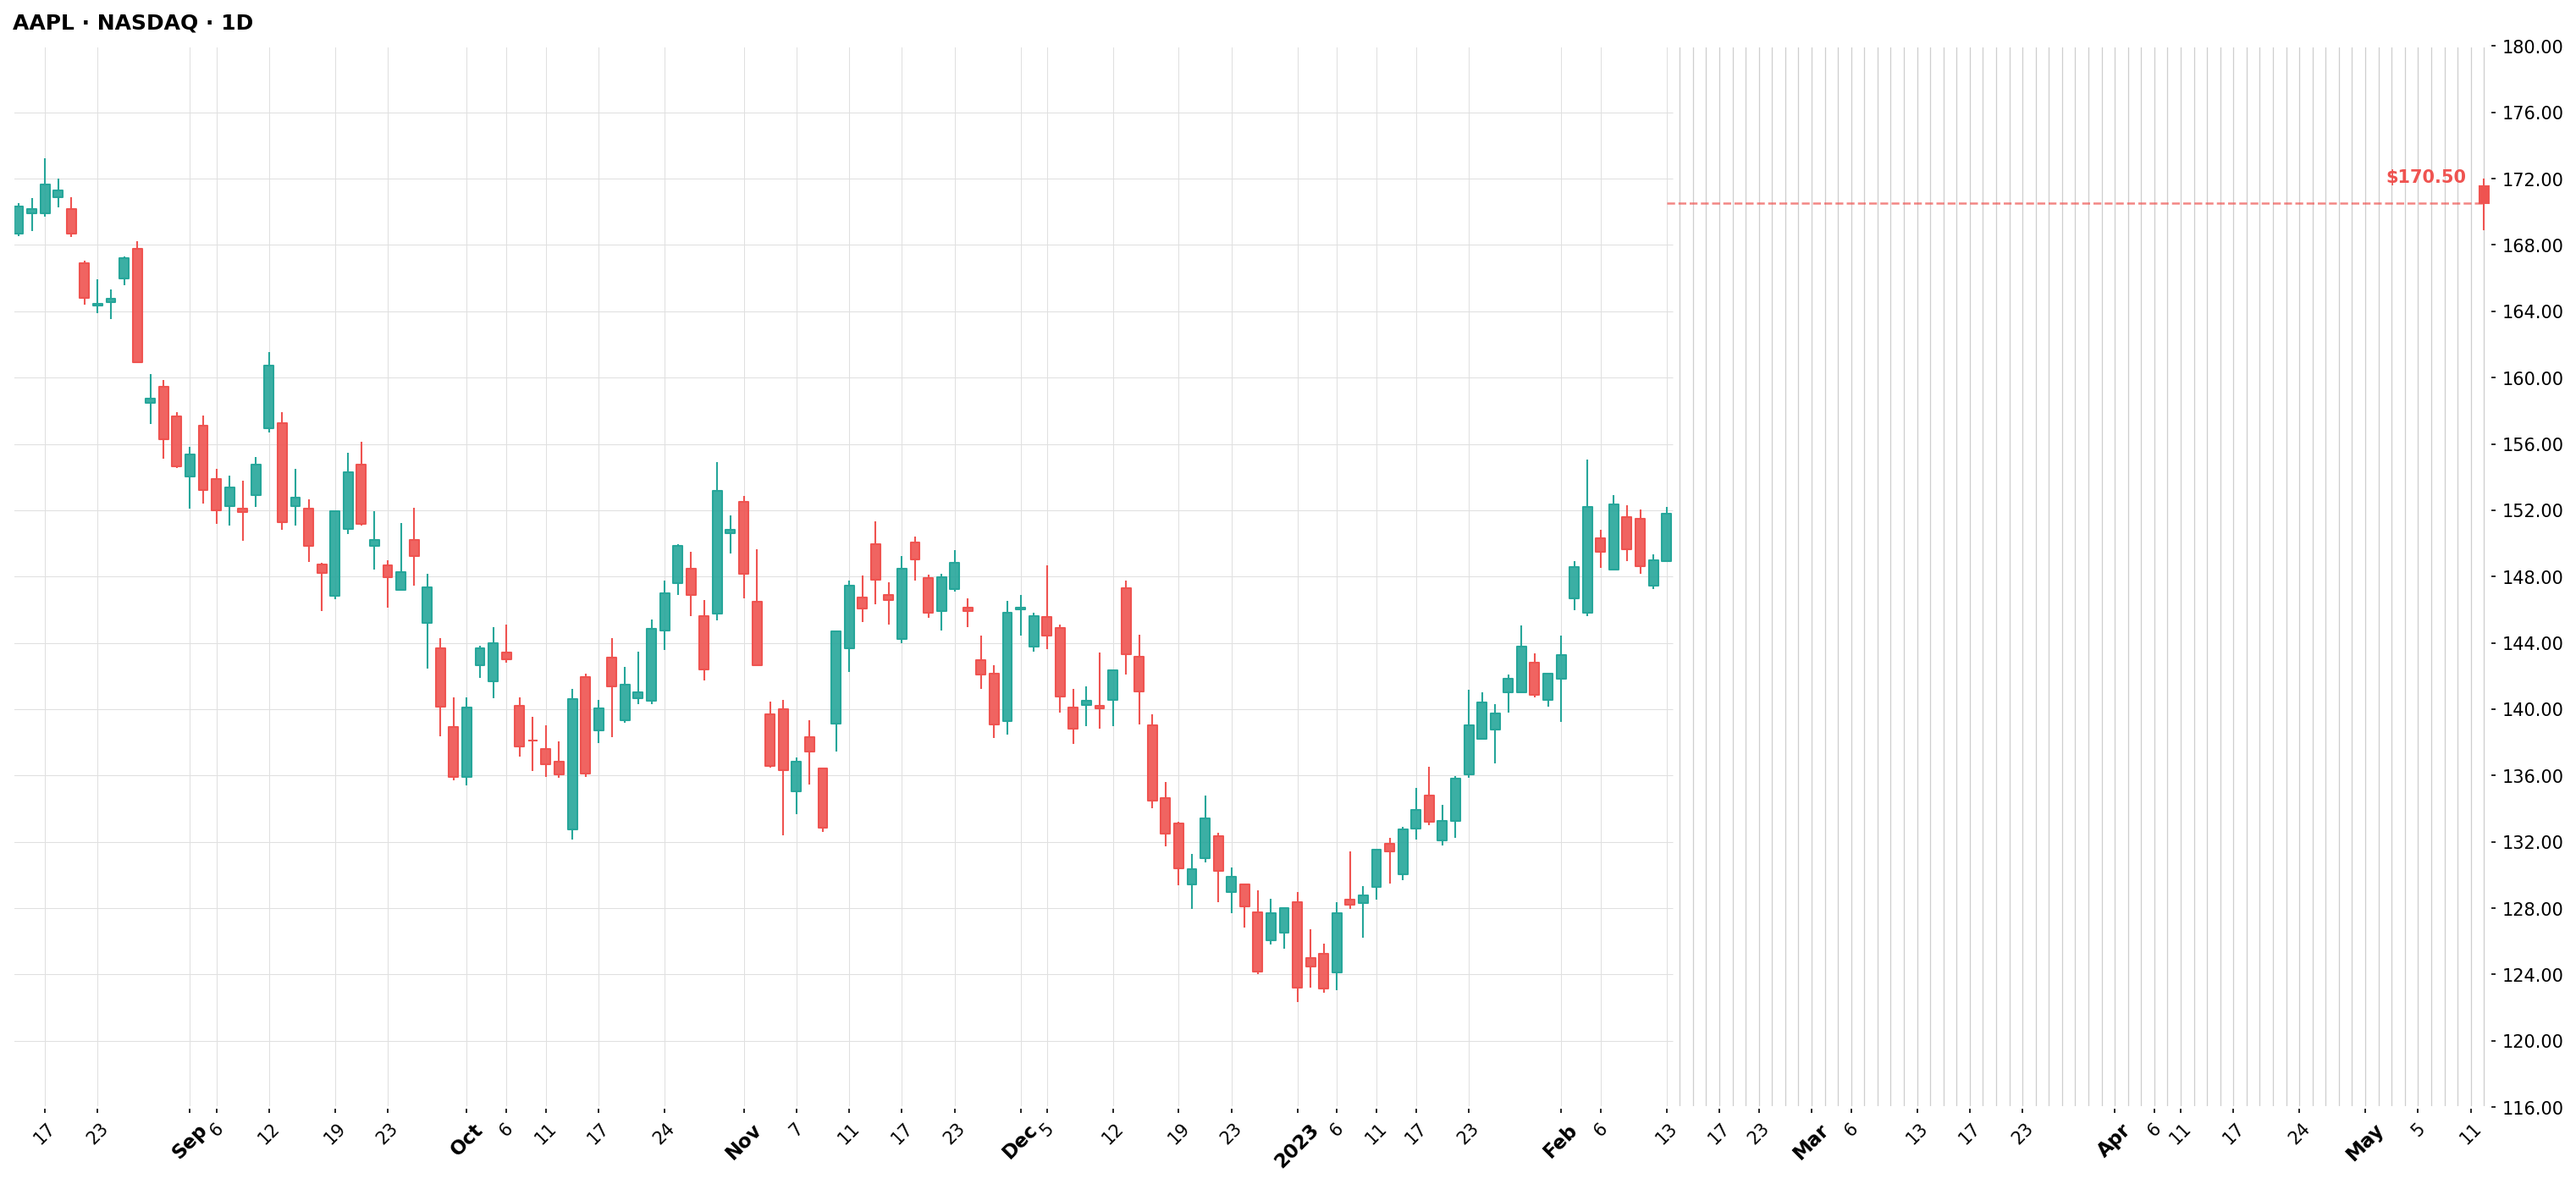
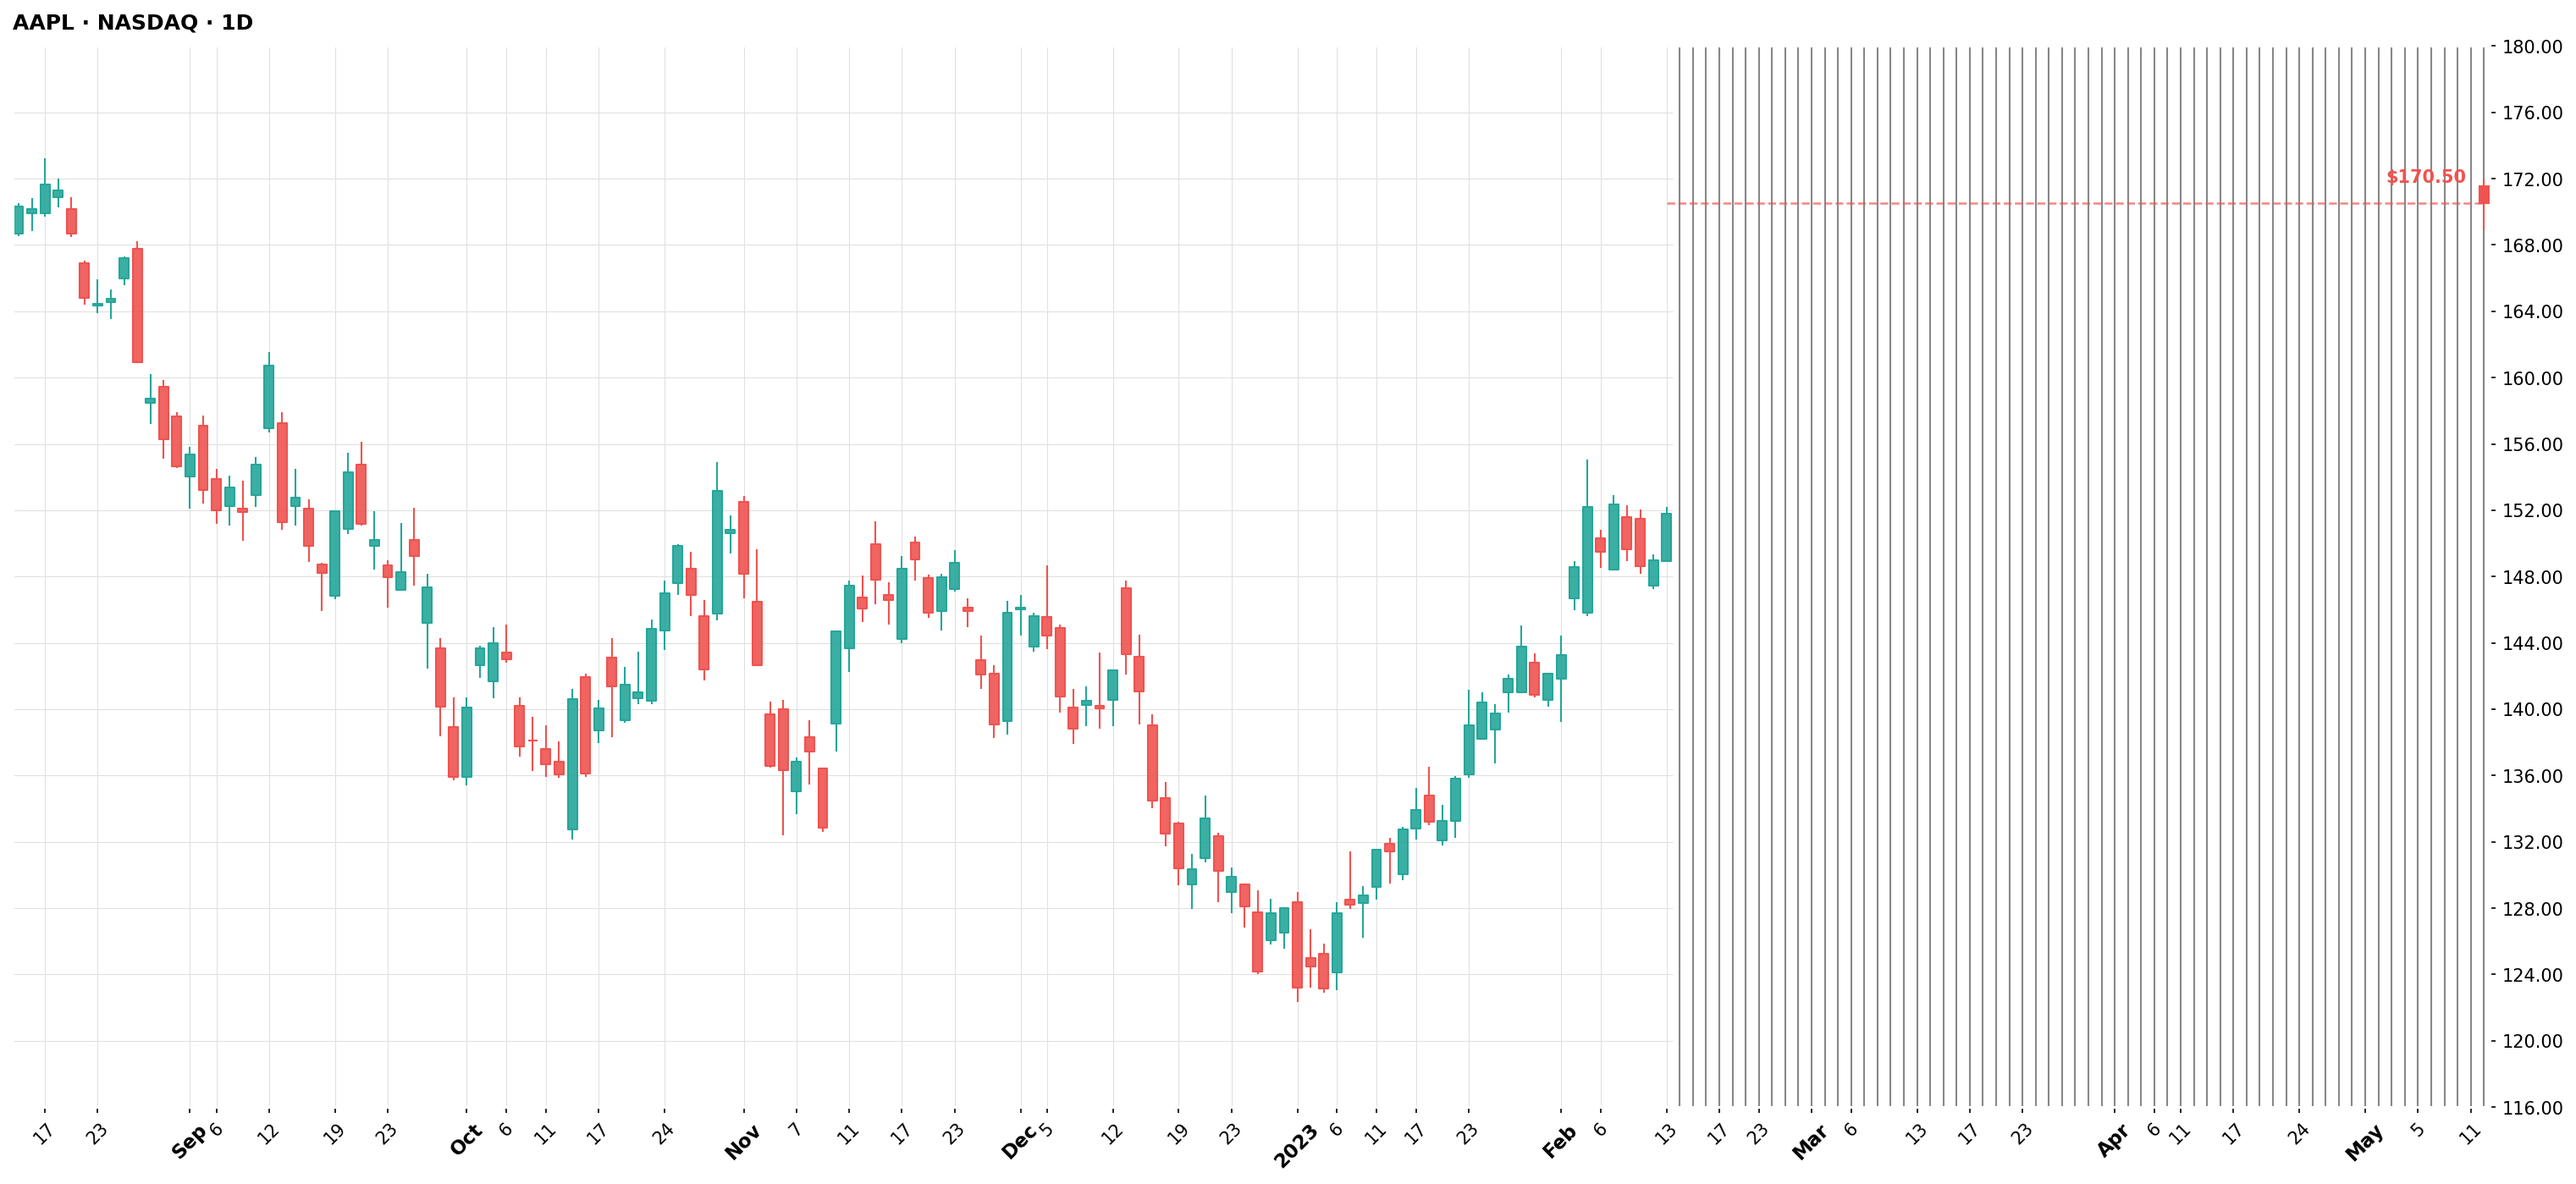
chart_prediction: 예측 영역 세로선 진하게(#888888/1.0px) + v2 프롬프트(한/영) 추가
- 세로선 색/굵기 강화: Gemini 이미지 생성 시 regeneration 후에도 선이 흐려지지 않도록
- prompts/test/test.v2.txt: 6m+3m 차트 구조에 맞춘 한국어 프롬프트
- prompts/test/test.v2.en.txt: 동일 내용 영어 버전 (실험 사용 기준)
- 20개 입력 차트 재생성

Changed region(s): [[0.6556, 0.0615, 0.9678, 0.9221]]

diff --git a/chart_prediction/scripts/generate_candle_chart.py b/chart_prediction/scripts/generate_candle_chart.py
@@ -225,11 +225,12 @@ def generate_chart(ohlcv: pd.DataFrame, ticker: str, suffix: str, title: str = "
 
         # ── 1) 예측 영역: 각 거래일 위치(정수 좌표)에 세로선 ──
         #       → 예측 캔들/정답 캔들이 이 선에 꽂히도록
+        #       (Gemini regeneration에서도 선이 유지되도록 진하고 굵게)
         n_pred = last_x - split_x
         for i in range(1, n_pred + 1):
             ax.axvline(
                 x=split_x + i,
-                color="#c9c9c9", linewidth=0.6, zorder=1, alpha=0.9,
+                color="#888888", linewidth=1.0, zorder=1, alpha=1.0,
             )
 
         # ── 2) 목표 가격 빨간 수평 점선 (split → 차트 끝) ──
